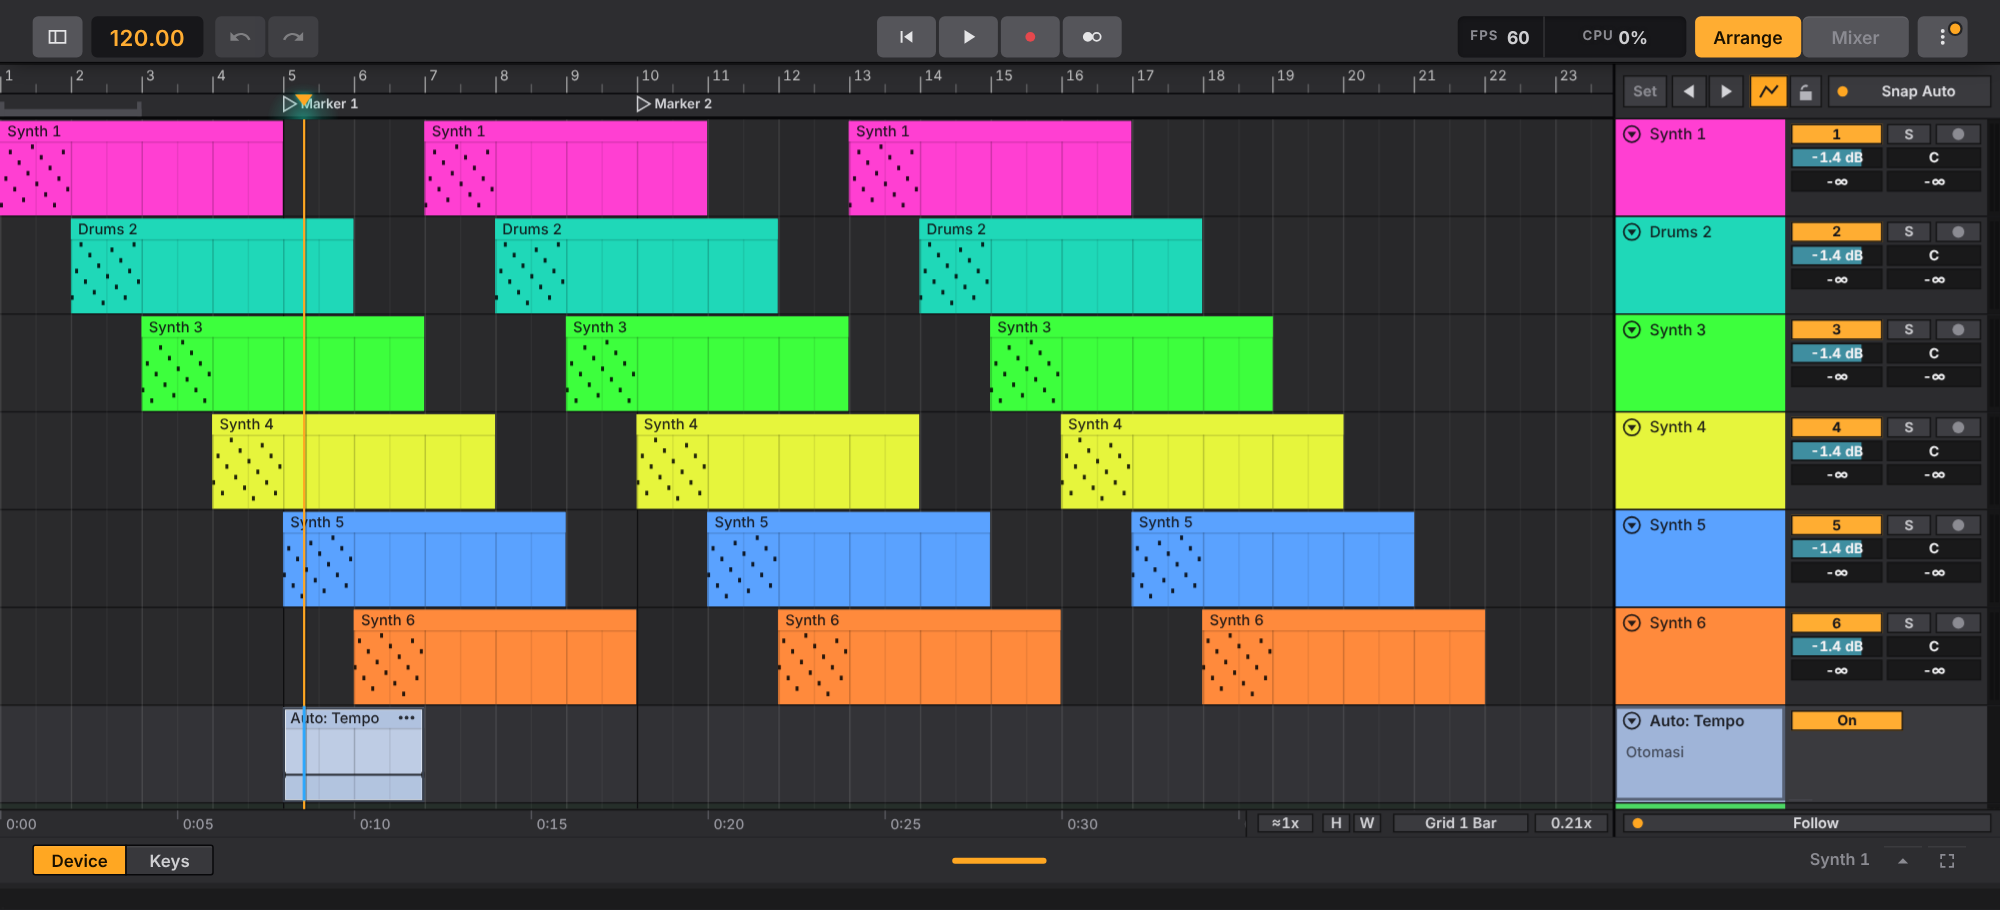
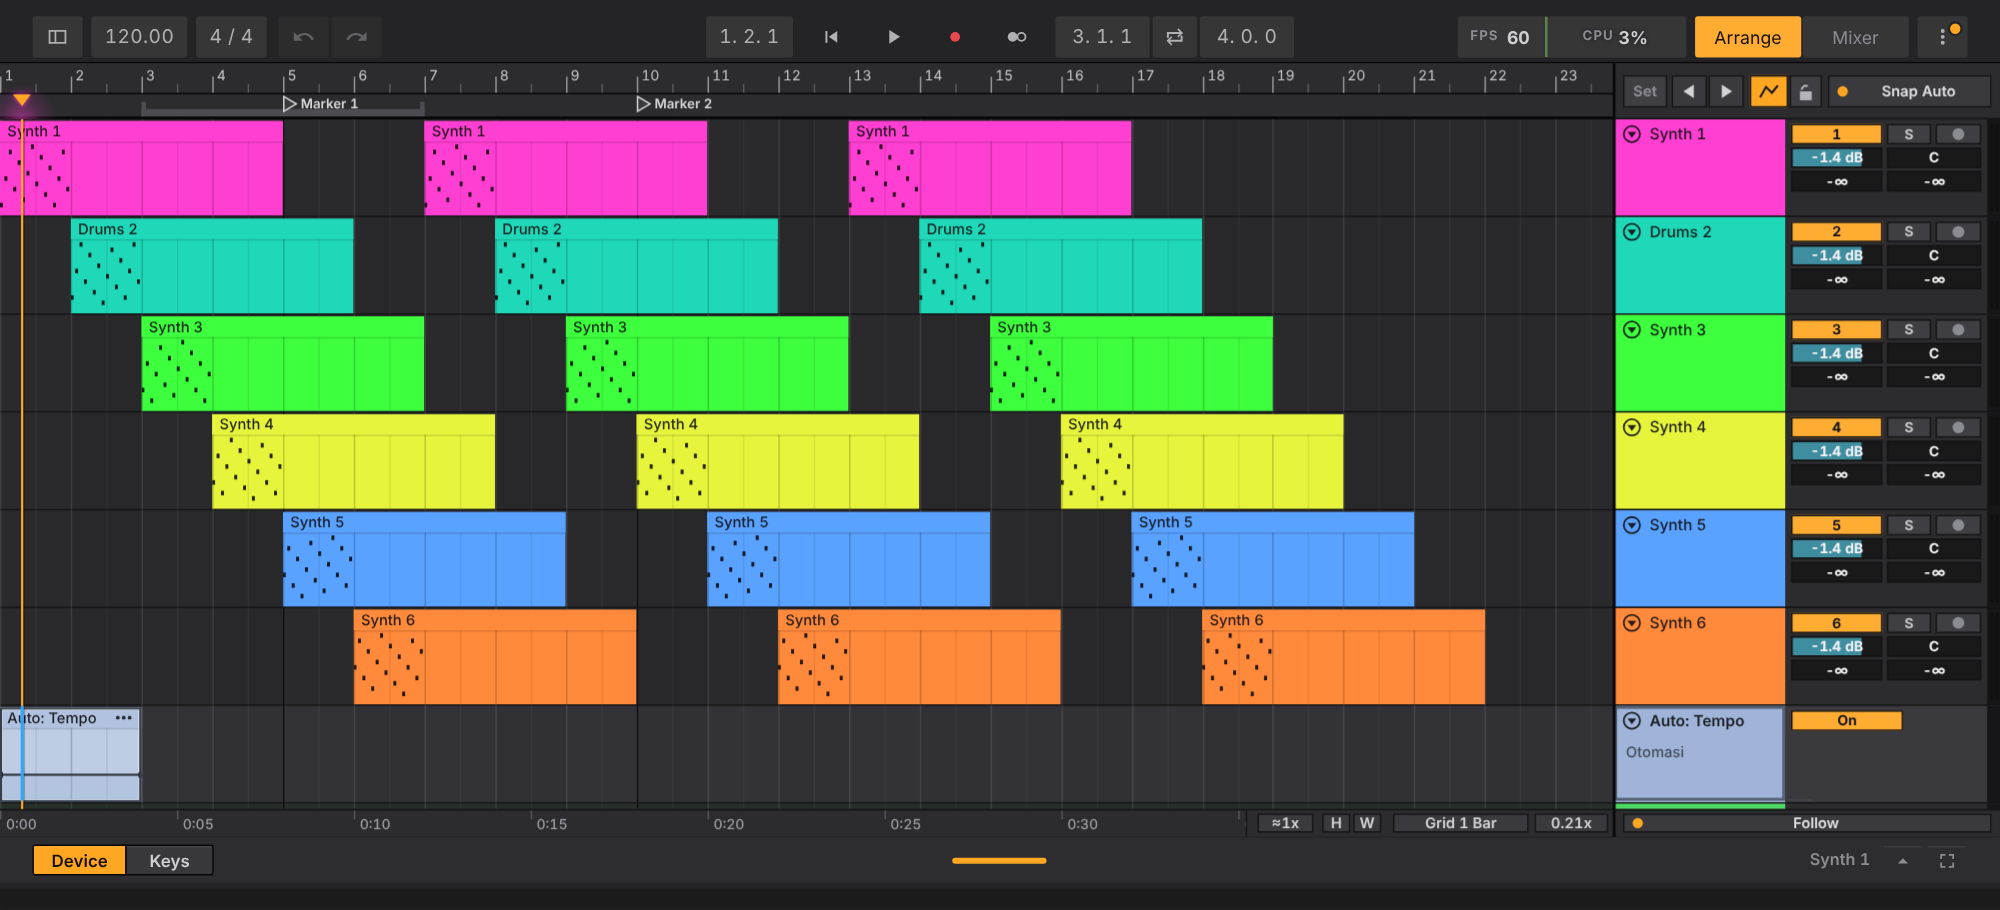
Control bar after Live 12: flat fields, position / loop / signature readouts
- the bar a step darker than the lanes, flat lighter fields without borders, regular light text
- song position '1. 1. 1', time signature, loop start / loop switch / loop length as fields
- play / record as bare glyphs
- test for the new fields

Claude-Session: https://claude.ai/code/session_016R99TjSh2G5U2VqVgMNHhT

diff --git a/js/main.js b/js/main.js
@@ -41,12 +41,20 @@ const panes = {};
 
 // ------------------------------------------------------------------ transport + readouts
 function icons() {
-  for (const [id, n] of [['browser', 'panel'], ['play', 'play'], ['stop', 'stop'], ['rew', 'rew'], ['rec', 'rec'], ['metro', 'metro'], ['undo', 'undo'], ['redo', 'redo'], ['menu', 'menu']]) setIcon($('#btn-' + id), n);
+  for (const [id, n] of [['browser', 'panel'], ['play', 'play'], ['stop', 'stop'], ['rew', 'rew'], ['rec', 'rec'], ['metro', 'metro'], ['loop', 'loopic'], ['undo', 'undo'], ['redo', 'redo'], ['menu', 'menu']]) setIcon($('#btn-' + id), n);
 }
 function tapTempo() { const b = openTapChip(); return b; }
 function openTapChip() { const b = Tempo.tapPress(); if (b) toast(b.toFixed(1) + ' BPM', 900); return b; }
 function wireTransport() {
   $('#btn-play').onclick = () => P.togglePlay();
+  // Live's control bar fields: position (tap = back to the start of the bar under it... here: the Tempo window's position), loop start / length and the
+  // loop switch, the time signature (tap = Tempo window, where tempo / signature / tap live)
+  $('#btn-loop').onclick = () => P.setLoop({ on: !state.loop.on });
+  $('#rd-sig2').onclick = Tempo.openTempo;
+  const nudgeLoop = (e, key) => { const r = e.currentTarget.getBoundingClientRect(), L = state.loop, bar = P.barLenAt(L.start), mv = (d) => { if (key === 'start') { const s = Math.max(0, L.start + d * bar); P.setLoop({ start: s, end: s + (L.end - L.start) }); } else P.setLoop({ end: Math.max(L.start + bar, L.end + d * bar) }); };
+    menu([{ label: key === 'start' ? 'Awal loop +1 bar' : 'Panjang loop +1 bar', fn: () => mv(1) }, { label: key === 'start' ? 'Awal loop -1 bar' : 'Panjang loop -1 bar', fn: () => mv(-1) }, { label: 'Loop ke seleksi / klip terpilih', fn: () => { const c = P.selectedClip(); if (c) P.setLoop({ start: c.clip.start, end: c.clip.start + c.clip.len, on: true }); } }], r.left, r.bottom + 2); };
+  $('#rd-lst').onclick = (e) => nudgeLoop(e, 'start'); $('#rd-llen').onclick = (e) => nudgeLoop(e, 'len');
+  $('#rd-pos2').onclick = () => P.seekTo(0);
   $('#btn-stop').onclick = async () => { if (P.rec.on) { await toggleRec(); return; } if (!state.playing) P.seekTo(0); P.stop(); };
   $('#btn-rew').onclick = () => P.seekTo(0);
   $('#btn-rec').onclick = toggleRec;
@@ -259,10 +267,15 @@ async function runExport({ name, items, sp, o }) {
 }
 
 let lastPos = '', lastBpm = '';
+let lastLoopTxt = '';
 function readouts() {
   const p = Math.max(0, state.pos), bi = P.barAt(p), bar = bi + 1, bt = P.beatLenAt(p), off = p - P.barStart(bi), beat = Math.floor(off / bt) + 1, six = Math.floor((off % bt) / Math.max(60, bt / 4)) + 1;
   const s = `${bar}.${beat}.${six}`;
-  if (s !== lastPos) { $('#rd-pos').textContent = s; lastPos = s; }
+  if (s !== lastPos) { $('#rd-pos').textContent = s; $('#rd-pos2').textContent = s.split('.').join('. '); lastPos = s; }
+  { const L = state.loop, f = (t) => { const bi = P.barAt(t), bt = P.beatLenAt(t), off = t - P.barStart(bi); return `${bi + 1}. ${Math.floor(off / bt) + 1}. ${Math.floor((off % bt) / Math.max(60, bt / 4)) + 1}`; };
+    const len = L.end - L.start, bl = P.barLenAt(L.start), bt = P.beatLenAt(L.start), lt = `${Math.floor(len / bl)}. ${Math.floor((len % bl) / bt)}. ${Math.floor((len % bt) / Math.max(60, bt / 4))}`;   // Live: loop start as a position, length as bars. beats. sixteenths
+    const k = f(L.start) + '|' + lt + '|' + L.on + '|' + P.sigTextAt(Math.max(0, state.pos));
+    if (k !== lastLoopTxt) { lastLoopTxt = k; $('#rd-lst').textContent = f(L.start); $('#rd-llen').textContent = lt; $('#btn-loop').classList.toggle('on', !!L.on); $('#rd-sig2').textContent = P.sigTextAt(Math.max(0, state.pos)).replace('/', ' / '); } }
   const b = P.bpmAt(Math.max(0, state.pos)).toFixed(2);
   if (b !== lastBpm) { $('#rd-bpm').textContent = b; lastBpm = b; }
   { const pb = $('#btn-play'); if (pb.classList.contains('on') !== !!state.playing) { pb.classList.toggle('on', !!state.playing); setIcon(pb, state.playing ? 'pause' : 'play'); } }   // one button: play / pause

diff --git a/sw.js b/sw.js
@@ -1,5 +1,5 @@
 // Offline cache. The cache name contains a hash of every file, so a new deploy replaces the old cache automatically.
-const CACHE = 'mobiledaw-4b650890a6aa';
+const CACHE = 'mobiledaw-b4224fd9b451';
 const ASSETS = ["./", "./css/app.css", "./css/ableton.css", "./css/float.css", "./css/live.css", "./icons/icon-192.png", "./icons/icon-512.png", "./icons/icon-maskable-512.png", "./index.html", "./js/about.js", "./js/aboutdata.js", "./js/audioedit.js", "./js/autocurve.js", "./js/automate.js", "./js/autosave.js", "./js/browser.js", "./js/chords.js", "./js/colorpick.js", "./js/defs.js", "./js/demos.js", "./js/devices.js", "./js/devviz.js", "./js/drumpad.js", "./js/edgeguard.js", "./js/editor.js", "./js/engine.js", "./js/engine/analog.js", "./js/engine/audioops.js", "./js/engine/cmdtext.js", "./js/engine/core.js", "./js/engine/dsp.js", "./js/engine/drift.js", "./js/engine/ds.js", "./js/engine/fx.js", "./js/engine/fx2.js", "./js/engine/fx3.js", "./js/engine/fx4.js", "./js/engine/fx5.js", "./js/engine/fx6.js", "./js/engine/fx7.js", "./js/engine/fx8.js", "./js/engine/granulator.js", "./js/engine/impulse.js", "./js/engine/instruments.js", "./js/engine/live.js", "./js/engine/meld.js", "./js/engine/meter.js", "./js/engine/mp3.js", "./js/engine/mp3tables.js", "./js/engine/nativesink.js", "./js/engine/operator.js", "./js/engine/phys.js", "./js/engine/poli.js", "./js/engine/sabio.js", "./js/engine/sf2.js", "./js/engine/simpler.js", "./js/engine/flmsyn.js", "./js/engine/hdgms.js", "./js/engine/hdmfx.js", "./js/engine/hdmini.js", "./js/engine/hdsaw.js", "./js/engine/smf.js", "./js/engine/stretchworker.js", "./js/engine/tmap.js", "./js/engine/wav.js", "./js/engine/waveops.js", "./js/engine/mdaw.wasm", "./js/engine/wasmengine.js", "./js/engine/web.js", "./js/engine/worklet-wasm.js", "./js/engine/worklet.js", "./js/floatwin.js", "./js/fps.js", "./js/fxviz.js", "./js/fxkit.js", "./js/flmpanels.js", "./js/flmfx.js", "./js/flm3osc.js", "./js/flmlayout.js", "./js/flmlive.js", "./js/slicerdetect.js", "./js/fxlaw.js", "./js/flmviz.js", "./js/gesture.js", "./js/history.js", "./js/import/als.js", "./js/import/build.js", "./js/import/flm.js", "./js/import/flp.js", "./js/import/fxmap.js", "./js/import/gm.js", "./js/import/index.js", "./js/import/ui.js", "./js/keymap.js", "./js/keys.js", "./js/layout.js", "./js/liveinst.js", "./js/liveui.js", "./js/log.js", "./js/main.js", "./js/midi.js", "./js/midiio.js", "./js/minimeters.js", "./js/mmdraw.js", "./js/native.js", "./js/perf.js", "./js/mixer.js", "./js/prefs.js", "./js/presetlib.js", "./js/presets.js", "./js/project.js", "./js/projects.js", "./js/pwa.js", "./js/quicksave.js", "./js/reorder.js", "./js/safdir.js", "./js/settingsui.js", "./js/storage.js", "./js/tempo.js", "./js/theme.js", "./js/timeline.js", "./js/topbar.js", "./js/touchhit.js", "./js/ui.js", "./js/uiscale.js", "./js/waveform.js", "./js/zip.js", "./manifest.json"];
 self.addEventListener('install', (e) => { e.waitUntil(caches.open(CACHE).then((c) => c.addAll(ASSETS)).then(() => self.skipWaiting())); });
 self.addEventListener('activate', (e) => {

diff --git a/css/ableton.css b/css/ableton.css
@@ -1771,3 +1771,22 @@ html.reduce-motion .lk-tabpg, html.reduce-motion .flm-pg > *, html.reduce-motion
 .card > h4 > .lv-tabs.lk-htabs { gap: 2px; }
 .card > h4 > .lv-tabs.lk-htabs .lv-tab { border: 0; border-radius: 4px 4px 0 0; background: rgba(0, 0, 0, .16); color: var(--lv-ink); text-transform: none; padding: 0 8px; }
 .card > h4 > .lv-tabs.lk-htabs .lv-tab.on { background: var(--lv-body); color: var(--lv-ink); box-shadow: inset 0 2px 0 var(--lv-or, var(--accent)); }
+/* Control bar as Live 12's (refs/live12-official, sampled): the bar a step darker than the lanes, every field / button a flat box a step
+   lighter (#333540 on #282a33 in the dark theme), no borders, 2 px radius, small gaps; light-grey regular text, the tempo in the same ink;
+   the position "1. 1. 1", the loop start / switch / length and the time signature as fields; play / stop / record as bare glyphs */
+#top { background: var(--panel); box-shadow: none; border-bottom: 1px solid var(--line); }
+#top .b.ic, #top .grp .b, #top .grp .b:first-child, #top .grp .b:last-child, #top .readout, #top-l #rd-bpm, #top .perf, #top .seg .b {
+  background: color-mix(in srgb, var(--panel) 92%, #fff 8%); color: color-mix(in srgb, var(--text) 82%, var(--panel)); border: 0; border-radius: 2px; box-shadow: none; }
+#top .readout, #top-l #rd-bpm { height: var(--cb-h); padding: 0 9px; font: var(--fw-r) var(--fs-5)/1 var(--font); font-variant-numeric: tabular-nums; letter-spacing: .02em; min-width: 0; }
+#top-l #rd-bpm { min-width: 58px; }
+#top .lvf { white-space: pre; }
+#rd-pos2 { min-width: 84px; margin-right: 6px; }
+#top .tport .b { background: transparent !important; }
+#top .tport #btn-play.on { background: transparent !important; color: var(--play); }
+#top .tport #btn-rec { color: color-mix(in srgb, var(--text) 82%, var(--panel)); } #top .tport #btn-rec.on { background: transparent !important; color: var(--rec); }
+#top .tport #btn-metro.on, #top #btn-loop.on, #top .seg .b.on, #top #btn-browser.on { background: var(--lv-or, var(--accent)) !important; color: #1a1100 !important; }
+#top .grp.lvloop { display: flex; gap: 2px; margin-left: 6px; } #top .grp.lvloop .readout { min-width: 64px; }
+#top .grp.lvloop #btn-loop { width: 30px; min-width: 30px; }
+[data-w="s"] #top .grp.lvloop, [data-w="xs"] #top .grp.lvloop, [data-w="xs"] #rd-sig2, [data-w="xs"] #rd-pos2 { display: none; }
+#top .readout, #top-l #rd-bpm, [data-theme="light"] #top-l #rd-bpm { color: color-mix(in srgb, var(--text) 82%, var(--panel)); font-size: 13px; }
+#top .seg .b { font-weight: var(--fw-r); }

diff --git a/index.html b/index.html
@@ -42,18 +42,21 @@
    <div id="top-l">
     <button id="btn-browser" class="b ic" aria-label="Browser"></button>
     <button class="readout" id="rd-bpm" aria-label="Tempo">120.00</button>
+    <button class="readout lvf" id="rd-sig2" aria-label="Birama">4 / 4</button>
     <div class="grp hist">
       <button id="btn-undo" class="b ic" aria-label="Urungkan"></button>
       <button id="btn-redo" class="b ic" aria-label="Ulangi"></button>
     </div>
    </div>
    <div id="top-c">
+    <button class="readout lvf" id="rd-pos2" aria-label="Posisi lagu">1. 1. 1</button>
     <div class="grp tport">
       <button id="btn-rew" class="b ic" aria-label="Kembali ke awal"></button>
       <button id="btn-play" class="b ic" aria-label="Play / pause"></button>
       <button id="btn-rec" class="b ic rec" aria-label="Rekam"></button>
       <button id="btn-metro" class="b ic" aria-label="Metronom"></button>
     </div>
+    <div class="grp lvloop"><button class="readout lvf" id="rd-lst" aria-label="Awal loop">1. 1. 1</button><button id="btn-loop" class="b ic" aria-label="Loop arrangement"></button><button class="readout lvf" id="rd-llen" aria-label="Panjang loop">4. 0. 0</button></div>
    </div>
    <div id="top-r">
     <div class="perf" aria-label="Performa">

diff --git a/js/ui.js b/js/ui.js
@@ -25,7 +25,8 @@ const P = {
   play: 'M8 5v14l11-7z', pause: 'M7 5h3.5v14H7zm6.5 0H17v14h-3.5z', stop: 'M6 6h12v12H6z', rew: 'M6 6h2v12H6zm3.5 6L18 6v12z',
   loop: 'M7 7h10v3l4-4-4-4v3H5v6h2V7zm10 10H7v-3l-4 4 4 4v-3h12v-6h-2v4z',
   metro: 'M7.5 7a5 5 0 1 0 0 10 5 5 0 0 0 0-10zm9 0a5 5 0 1 0 0 10 5 5 0 0 0 0-10zm0 1.8a3.2 3.2 0 1 1 0 6.4 3.2 3.2 0 0 1 0-6.4z',   // Live's metronome: a full and an empty dot
-  panel: 'M3 5h18v14H3zm1.8 1.8v10.4H9V6.8zm6 0v10.4h8.4V6.8z',   // Live's browser toggle: a window with its side panel
+  panel: 'M3 5h18v14H3zm1.8 1.8v10.4H9V6.8zm6 0v10.4h8.4V6.8z',
+  loopic: 'M4 7h13l-2.5-2.5 1.2-1.2L20.4 8l-4.7 4.7-1.2-1.2L17 9H6v4H4zm16 10H7l2.5 2.5-1.2 1.2L3.6 16l4.7-4.7 1.2 1.2L7 15h11v-4h2z',   // Live's loop switch   // Live's browser toggle: a window with its side panel
   undo: 'M12.5 8c-2.65 0-5.05 1-6.9 2.6L2 7v9h9l-3.6-3.6A8 8 0 0 1 12.5 10c3.5 0 6.5 2.3 7.6 5.5l2.4-.8C21.1 10.7 17.2 8 12.5 8z',
   redo: 'M11.5 8c2.65 0 5.05 1 6.9 2.6L22 7v9h-9l3.6-3.6A8 8 0 0 0 11.5 10c-3.5 0-6.5 2.3-7.6 5.5l-2.4-.8C2.9 10.7 6.8 8 11.5 8z',
   menu: 'M12 8a2 2 0 1 0 0-4 2 2 0 0 0 0 4zm0 6a2 2 0 1 0 0-4 2 2 0 0 0 0 4zm0 6a2 2 0 1 0 0-4 2 2 0 0 0 0 4z',

diff --git a/docs/HANDOFF.md b/docs/HANDOFF.md
@@ -767,6 +767,7 @@ Permintaan pemilik: SEMUA efek dan instrumen diganti dengan set stok Ableton Liv
 - **Referensi resmi Live 12** (`docs/refs/live12-official/01..05`, dari pemilik): garis antar-track tipis 1 px, area drop hanya teks "Seret file dan device ke sini" (tanpa kotak), blok nama berwarna ~46% lebar header, tema baru **Dark (Live 12)** (`live12`: abu sedikit lebih terang dan dingin, LIB `tint`). Perbandingan: `docs/redesign/arr/compare-live12-official.png`.
 - **Warna & garis dari sampel piksel referensi resmi** (refs/live12-official/02): lane & ruler tema Dark (Live 12) = #323440; grid gelap sangat halus (3-5 level dari lane); grid juga tergambar samar di badan klip (beat 8%, bar 12% hitam); klip tanpa outline; strip nama warna sama + garis 14%; waveform = nada gelap warna klip (shade 0.72), not = nada tergelap (0.85); pita selang-seling hampir tak terlihat di tema gelap; area scrub warna ruler.
 - **Tema Light (Live 12)** (`live12light`, sampel refs/live12-official 04): lane/ruler/header #a1a5ae, pita #989ca5. Track terlipat: klip mengisi baris dengan warnanya + "..." (Live). Kontrol header 14 px, teks 9.5 px. Perbandingan terang: `docs/redesign/arr/compare-live12-light.png`.
+- **Control bar = Live 12** (sampel refs/live12-official): bar `--panel`, kotak isian/tombol lebih terang 8% putih tanpa garis, radius 2 px, teks abu terang regular 13 px (tempo tidak oranye lagi); isian baru: posisi lagu "1. 1. 1" (`#rd-pos2`, ketuk = ke awal), birama "4 / 4" (`#rd-sig2`, ketuk = jendela Tempo), loop start / saklar loop / panjang loop (`#rd-lst`, `#btn-loop`, `#rd-llen`, ketuk = geser per bar / loop ke klip). Play/rec/stop tanpa kotak. `docs/redesign/arr/controlbar-live12.png`.
 - Belum: instrumen replika Live (Drift, Operator, Analog, Poli, Meld, Wavetable, Simpler, Impulse, Granulator, Electric/Tension/Collision, DS) tidak diubah; penanda slice di display Slicer belum ada.
 
 - **Card modul FLM = device Live** (permintaan pemilik: bahasa desain, perilaku dan interaksi card FX Ableton Live): `fxkit.js flmLive` + komposisi per modul di `js/flmlive.js` (37 efek + Transistor Bass / Slicer), dibangun dari bagian yang sama dengan panel Live 12 (`k.dk` display gelap, `k.NT` angka oranye, `k.TL`, `lk-ch`). Pola: kolom knob kiri (`L`) | display (`D`: grafik `flmviz`, `handles` yang diseret seperti Live - EQ band bernomor, ring Filter freq/reso, Threshold Compressor / Gate / Limiter, crossover Multiband, X/Y Waveshaper & Multi FX, 8 band Graphic / Tuned EQ; `tabs` = tombol mode di bawah grafik; `rows` = baris angka di dalam display, `table` = tabel band ala Multiband Dynamics; `tap` keyboard Pitcher; `piano` Scale) | baris knob di bawah display (`B`, ala Chorus-Ensemble / Phaser-Flanger / Auto Pan) | kolom kanan (`R`) dengan Dry/Wet di bawah (`'-'`). Equalizer meniru EQ Eight: band terpilih (Freq / Gain / Q di kiri, tombol 1-4 + tipe + channel di bawah display). `{ sw }` = Sync ala Live (menu saat Sync, knob saat bebas). Tes interaksi nyata di `tools/flmfx-shots.mjs` (seret ring Filter, ketuk keyboard Pitcher 2). 3x Osc masih memakai `flmLayout` (tab).
